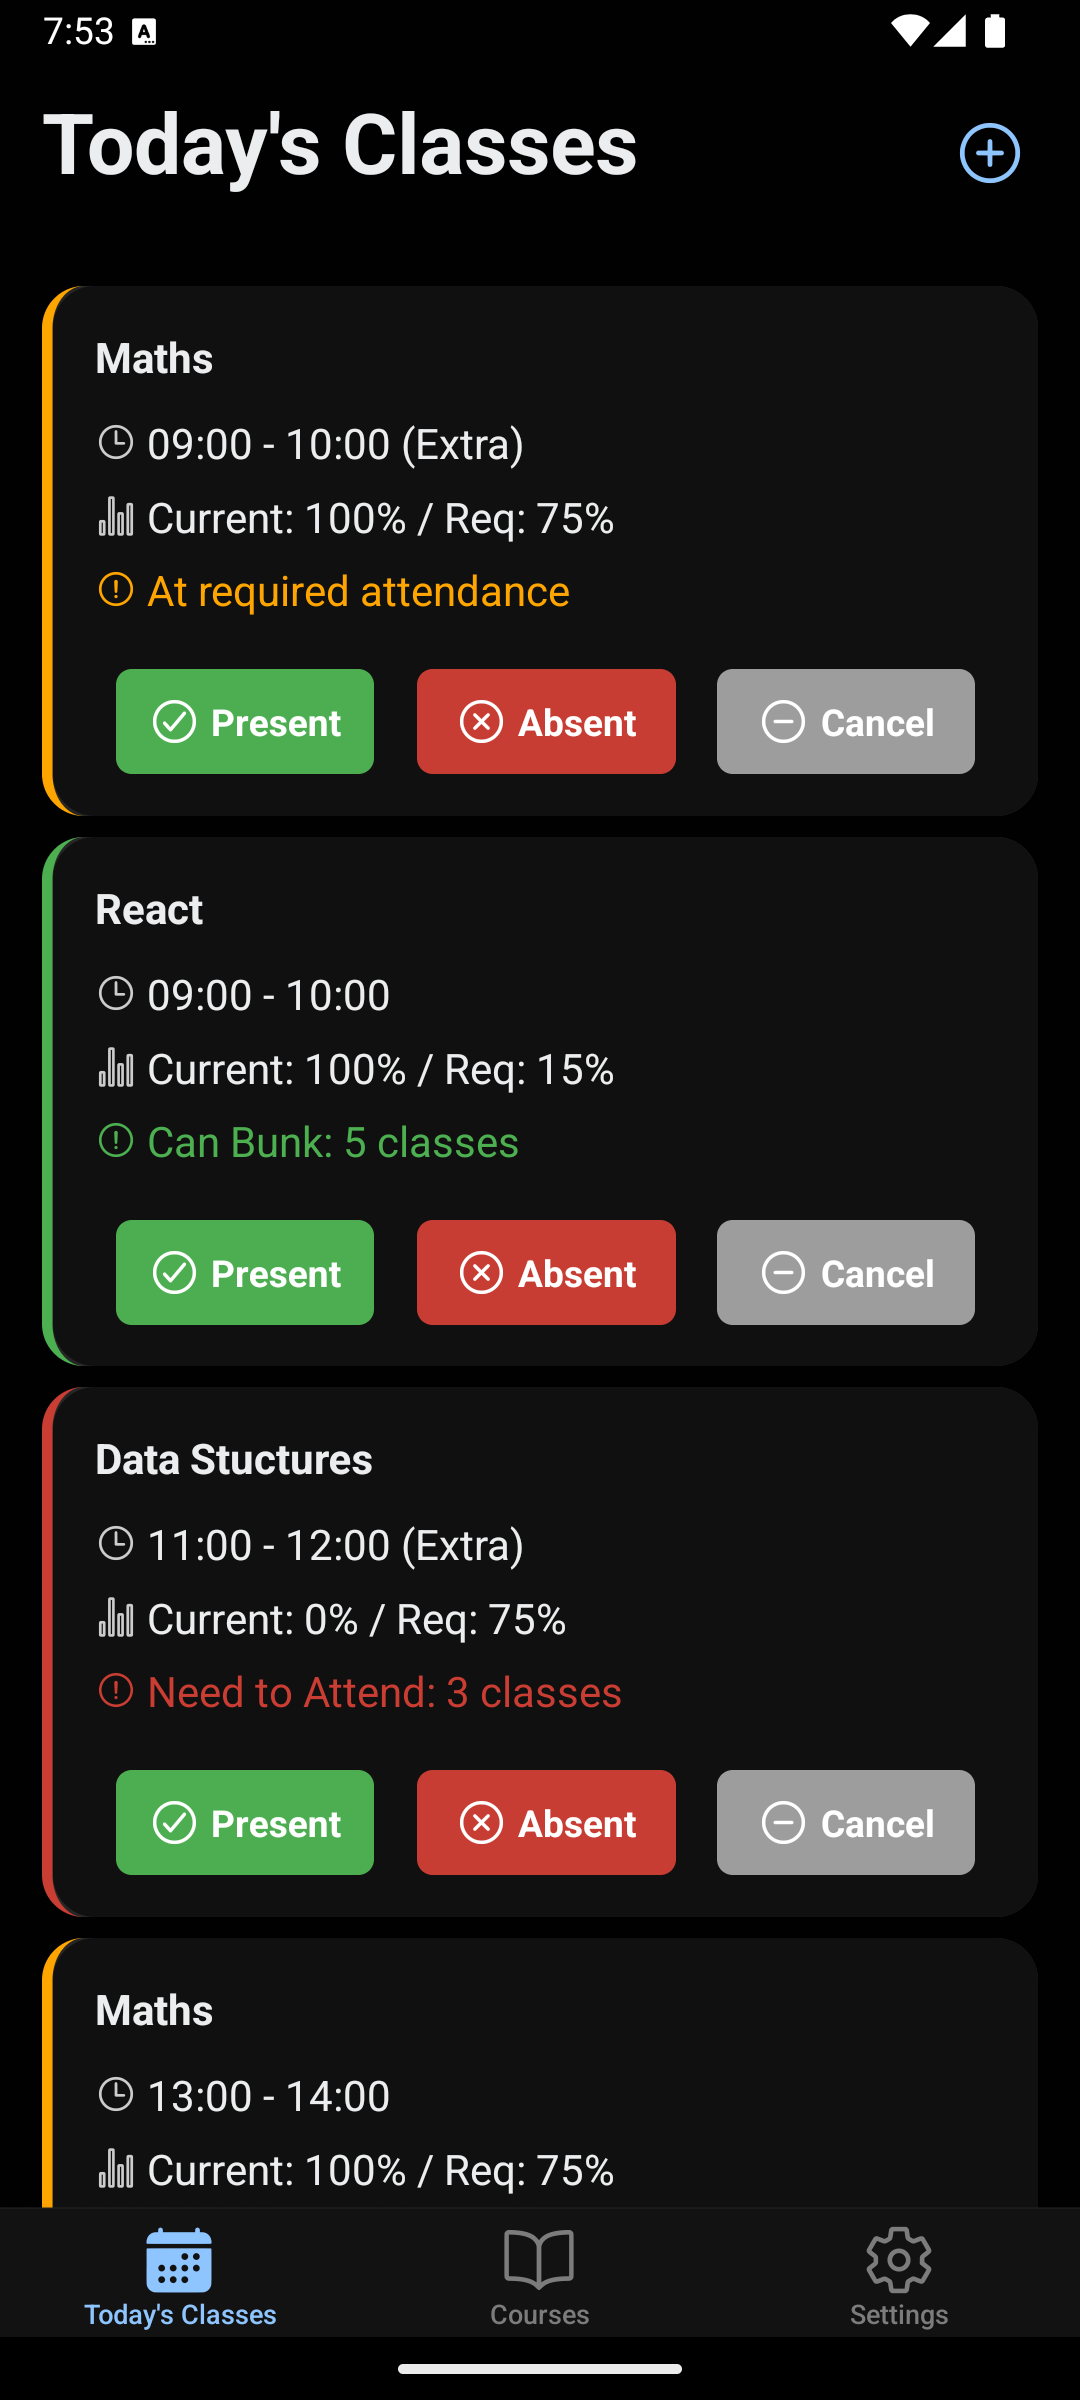
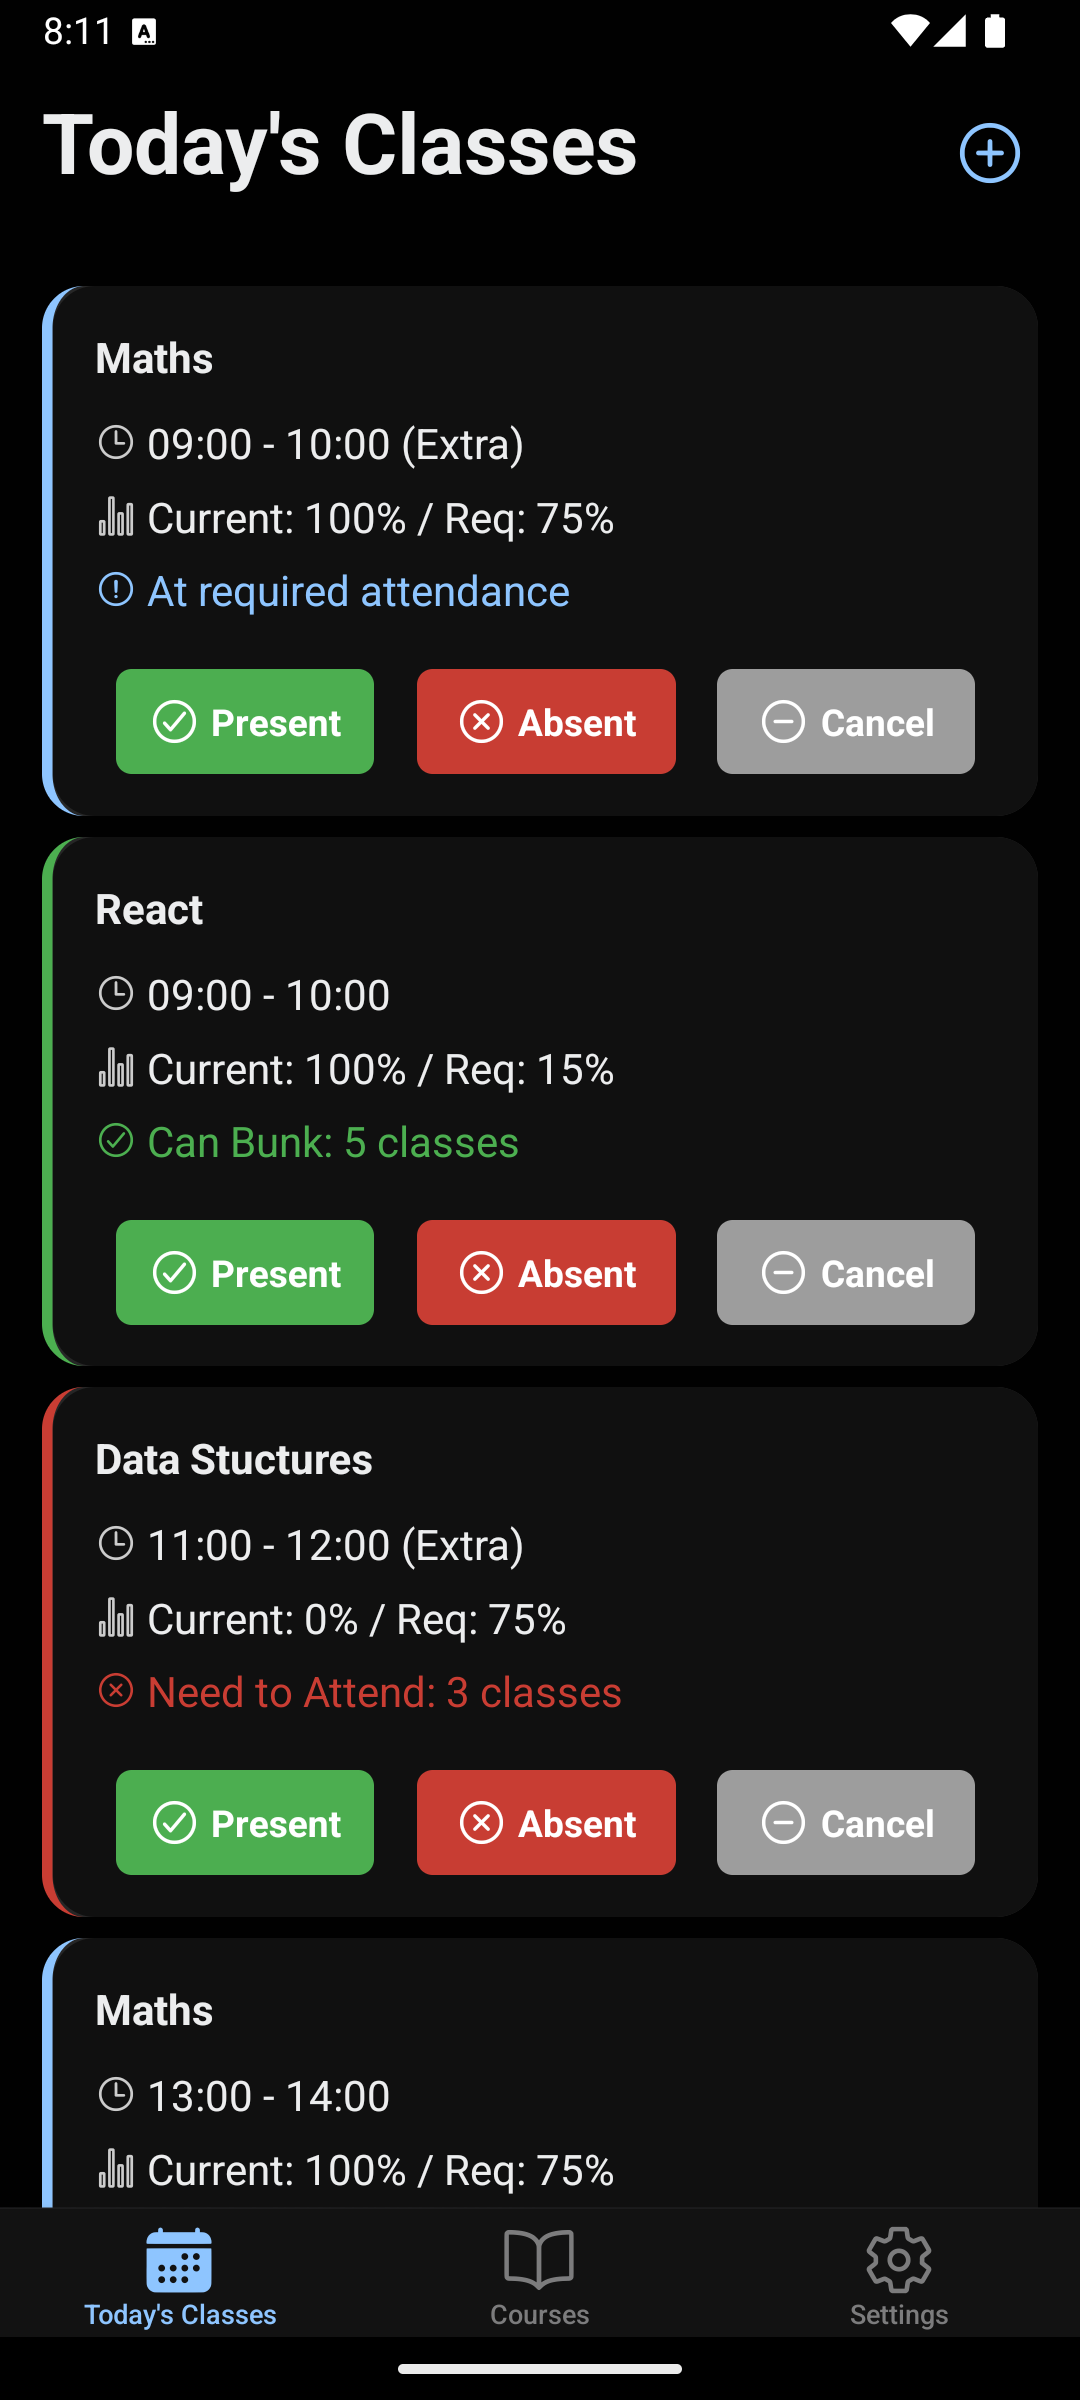
images

diff --git a/app/(tabs)/index.tsx b/app/(tabs)/index.tsx
@@ -58,7 +58,7 @@ const getAttendanceDelta = (
 const getDeltaColor = (delta: number, colorScheme: "light" | "dark") => {
   if (delta > 0) return Colors[colorScheme].error; // Need to attend => red accent
   if (delta < 0) return Colors[colorScheme].success; // Can bunk => green accent
-  return Colors[colorScheme].warning; // Exactly at required => yellow accent
+  return Colors[colorScheme].tint; // Exactly at required => tint color
 };
 
 export default function TodaysClassesScreen() {
@@ -253,12 +253,30 @@ function TodaysClassesContent({
               </ThemedText>
             </View>
             <View style={styles.infoRow}>
-              <Ionicons
-                name="alert-circle-outline"
-                size={16}
-                color={accentColor}
-                style={{ marginRight: 4 }}
-              />
+              {attendanceNote === 'At required attendance' && (
+                <Ionicons
+                  name="alert-circle-outline"
+                  size={16}
+                  color={accentColor}
+                  style={{ marginRight: 4 }}
+                />
+              )}
+              {attendanceNote.startsWith('Can Bunk') && (
+                <Ionicons
+                  name="checkmark-circle-outline"
+                  size={16}
+                  color={accentColor}
+                  style={{ marginRight: 4 }}
+                />
+              )}
+              {attendanceNote.startsWith('Need to Attend') && (
+                <Ionicons
+                  name="close-circle-outline"
+                  size={16}
+                  color={accentColor}
+                  style={{ marginRight: 4 }}
+                />
+              )}
               <ThemedText style={{ color: accentColor }}>
                 {attendanceNote}
               </ThemedText>
